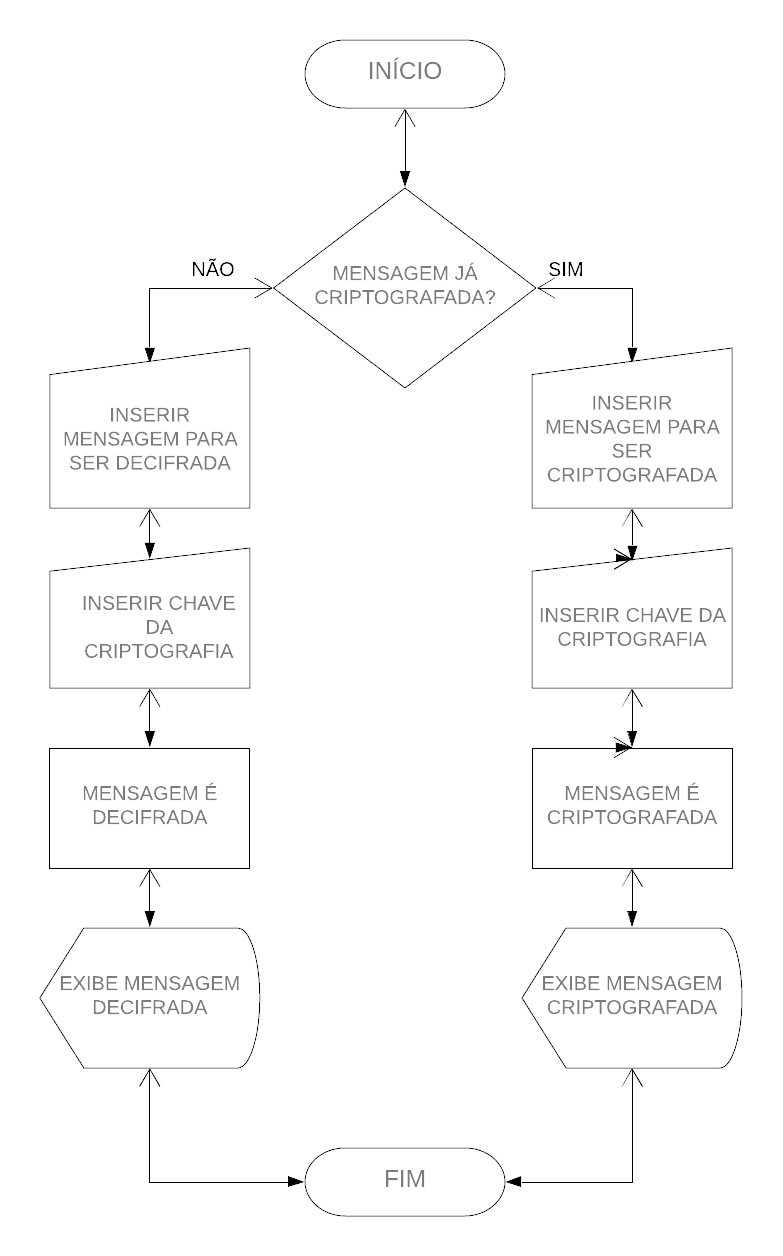
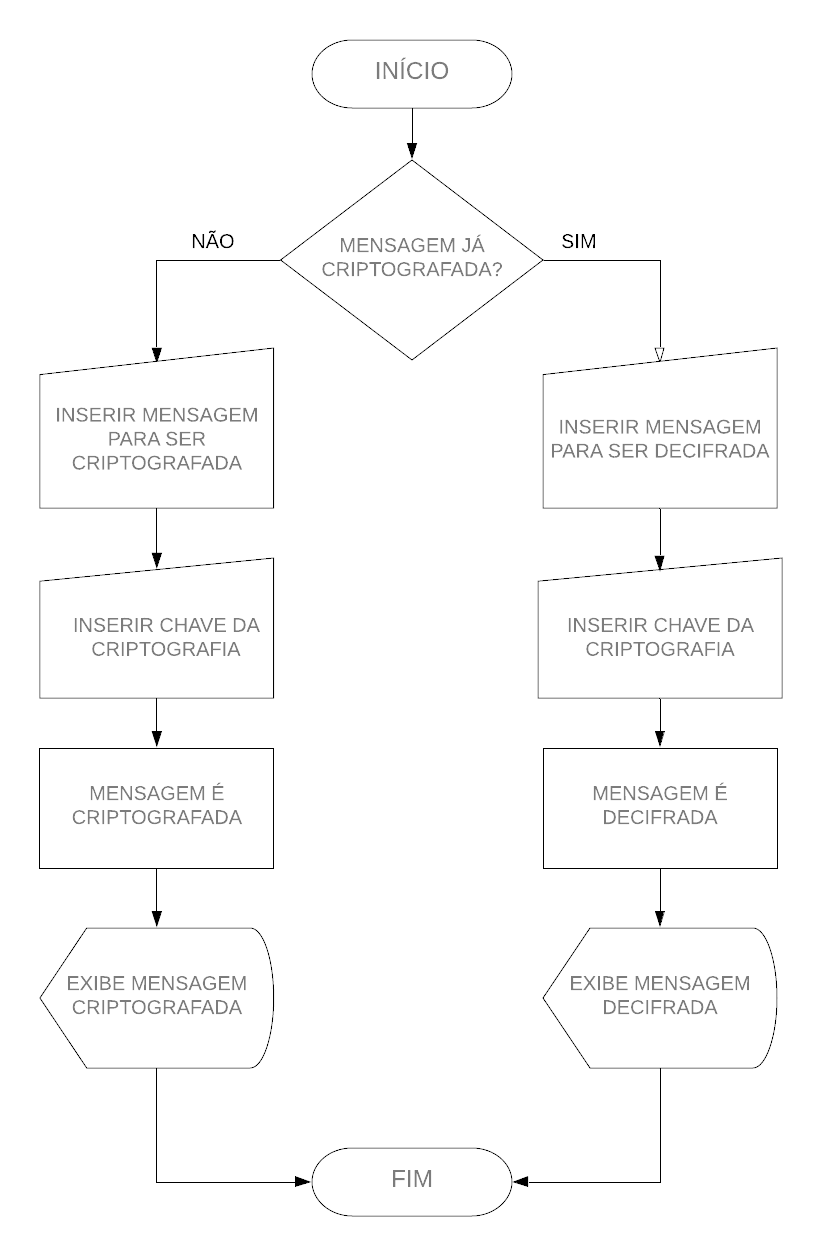
Nova versão do cipher, mudanças no css e html, README e diagrama atualizados

diff --git a/src/index.html b/src/index.html
@@ -13,35 +13,36 @@
     </header>
 
     <section id="cript">
-      <h2>Criptografe</h2>
+      <h2>Criptografando</h2>
       <label>Insira a mensagem que deseja criptografar:</label>
       <br>
-      <input id="textToEncode" type="text" />
+      <textarea id="textToEncode" rows="4" cols="50"></textarea>
       <br><br>
-      <label>Insira a chave da criptografia:</label>
+      <label>Insira o deslocamento do alfabeto? (a chave)</label>
       <br>
-      <input id="offsetEncode" type="text" />
+      <input id="offsetEncode"></input>
       <br>
-      <button onClick="getTextEncode()">Criptografe</button>
+      <button onClick="getTextEncode()" class="testbutton">Criptografe</button>
+      <br>
       <p id="encoded"></p>
     </section>
 
     <section id="dec">
-      <h2>Decifre</h2>
-      <label>Insira a mensagem que deseja decifrar:</label>
+      <h2>Decifrando</h2>
+      <label>Insira a mensagem que deseja descriptografar:</label>
       <br>
-      <input id="textToDecode" type="text" />
+      <textarea id="textToDecode" rows="4" cols="50"></textarea>
       <br><br>
       <label>Insira a chave que foi usada na criptografia:</label>
       <br>
-      <input id="offsetDecode" type="text" />
+      <input id="offsetDecode"></input>
       <br>
-      <button onClick="getTextDecode()">Decifre</button>
+      <button onClick="getTextDecode()" class="testbutton">Decifre</button>
       <p id="decoded"></p>
     </section>
 
     <footer>
-      <p>blablablah</p>
+      <p>< Jéssica Happatsch - Laboratoria ></p>
     </footer>
     <script src="script.js"></script>
   </body>

diff --git a/src/cipher.js b/src/cipher.js
@@ -3,14 +3,9 @@ function encode(offset, string) {
 
   for (let i = 0; i < string.length; i++) {
     let letter = string.charCodeAt(i);
-    if ((letter >= 65) && (letter <= 90)) {
-      encUpper = (letter - 65 + offset) % 26 + 65;
-      final += String.fromCharCode(encUpper);
-    } else if ((letter >= 97) && (letter <= 122)) {
-      encLower = (letter - 97 + offset) % 26 + 97;
-      final += String.fromCharCode(encLower);
-    } else {
-      final += String.fromCharCode(letter);
+    if ((letter >= 32) && (letter <= 254)) {
+      encLetter = ((letter - 32 + offset) % 222) + 32;
+      final += String.fromCharCode(encLetter);
     }
   }
   return final;
@@ -21,14 +16,9 @@ function decode(offset, string) {
 
   for (let i = 0; i < string.length; i++) {
     let letter = string.charCodeAt(i);
-    if ((letter >= 65) && (letter <= 90)) {
-      encUpper = ((letter - 65 - offset) % 26) + 65;
-      final += String.fromCharCode(encUpper);
-    } else if ((letter >= 97) && (letter <= 122)) {
-      encLower = ((letter - 97 - offset) % 26) + 97;
-      final += String.fromCharCode(encLower);
-    } else {
-      final += String.fromCharCode(letter);
+    if ((letter >= 32) && (letter <= 254)) {
+      encLetter = ((letter - 32 - offset) % 222) + 32;
+      final += String.fromCharCode(encLetter);
     }
   }
   return final;

diff --git a/src/style.css b/src/style.css
@@ -9,7 +9,7 @@ body {
   align-self: center;
 }
 
-header, section {
+section {
   padding: 30px;
 }
 
@@ -28,4 +28,26 @@ label, p {
   font-family: 'Montserrat', sans-serif;
   font-weight: 400;
   font-size: 16px;
+}
+
+.testbutton {
+  font-family: 'trebuchet ms';
+  color: #1F1F1F !important;
+  font-size: 13px;
+  text-shadow: 1px 1px 0px #D9D9D9;
+  box-shadow: 1px 1px 1px #F9F9F9;
+  padding: 10px 25px;
+  border: 1px outset #575757;
+  background: #FCFCFC;
+  margin-top: 18px;
+}
+
+
+.testbutton:hover {
+  color: #6A5A6A !important;
+  background: #F2F2F2;
+  background: linear-gradient(top,  #F2F2F2,  #FFFFFF);
+  background: -ms-linear-gradient(top,  #F2F2F2,  #FFFFFF);
+  background: -webkit-gradient(linear, left top, left bottom, from(#F2F2F2), to(#FFFFFF));
+  background: -moz-linear-gradient(top,  #F2F2F2,  #FFFFFF);
 }

diff --git a/README.md b/README.md
@@ -1,22 +1,10 @@
-# Cifra de César
+# Cifra de César - Projeto I
 
-## Prefácio
-
-O aniversário da sua mãe está se aproximando e você está organizando uma festa
-surpresa. Para manter a festa em segredo foi criado um grupo de Whatsapp com
-amigxs e familiares. O problema é que as vezes sua mãe utiliza o seu celular
-e pode ser que ela veja as suas mensagens. Como a festa é surpresa, você
-decide criar uma aplicação que permita enviar mensagens criptografadas e depois
-descriptografar. Então agora é a hora de aplicar os seus super poderes 😎
-
-## Introdução
-
+# # Sobre a Cifra de César
 A [cifra de César](https://pt.wikipedia.org/wiki/Cifra_de_C%C3%A9sar) é um dos
 primeiros tipos de criptografias conhecidos na história. É um tipo de cifra por
 substituição, em que uma letra no texto original é substituída por outra,
 seguindo um número fixo para essa subtituição.
-
-![caeser-cipher](https://upload.wikimedia.org/wikipedia/commons/thumb/2/2b/Caesar3.svg/2000px-Caesar3.svg.png)
 
 O imperador Júlio César usou essa cifra para enviar ordens aos seus generais no
 campo de batalha. Essa é uma das técnicas mais simples e mais usadas para
@@ -32,174 +20,25 @@ com facilidade e não oferecem muita segurança na comunição, mas a cifra de
 César muitas vezes pode fazer parte de um sistema mais complexo de
 criptografia, como a cifra de Vigenère, e tem aplicação no sistema ROT13.
 
-## Objetivos
+# # O projeto e seus objetivos
+O objetivo principal é a construção de uma aplicação web, usando os conhecimentos de **User Experience Design** e de **JavaScript**. Isso inclui o desenho do produto pensando nos usuários, construção da interface, escutar eventos básicos do DOM, escrever a lógica que cifra e descifra mensagens, realizar testes básicos que comprovem (e documentem) esta lógica e manipular o DOM para que ele mostre e imprima os resultados.
 
-O objetivo principal de aprendizagem deste projeto é que você tenha sua
-primeira experiência construindo uma aplicação web, usando os seus
-conhecimentos de **User Experience Design** e de **JavaScript**. Isso
-inclui desenhar um produto pensando nos usuários, construir uma interface,
-escutar eventos básicos do DOM, escrever a lógica que cifra e descifra
-mensagens, realizar testes básicos que comprovem (e documentem) esta lógica,
-e finalmente manipular o DOM para que ele mostre e imprima os resultados.
+A lógica do projeto deve estar implementada inteiramente em vanilla JavaScript(ES6).
 
-Esperamos que neste projeto você possa pensar no usuário, entendendo quem ele
-é e suas necessidades. A ideia é que consiga entender o que o usuário
-necessita para criar o produto e o ajudar a resolver suas necessidades da
-melhor maneira possível.
+# # Descrição do projeto
+A interface permite que o usuário insira uma mensagem seja para criptografar ou decifrar usando a Cifra de César e de acordo com a chave (offset - deslocamento) que ele escolher e inserir.
+O resultado é impresso na tela depois que o usuário insere a mensagem, a chave e aperta o botão correspondente.
 
-Também é esperado que você possa se organizar, tendo em conta o tempo e os
-recursos disponíveis. Essa é a primeira vez que avaliaremos suas soft skills,
-mas deve considerar que são habilidades que provavelmente já deve ter
-utilizado em diversas experiências em sua vida. O importante é que realize
-o projeto de forma integral.
+# # # A lógica
+![diagrama-de-blocos](https://github.com/vonhappatsch/caesar-cipher/blob/master/diagrama.png)
 
-## Considerações gerais
-
-A lógica do projeto deve estar implementada inteiramente em JavaScript(ES6).
-Nesse projeto NÃO está permitido usar bibliotecas ou frameworks, só
-[vanilla JavaScript](https://medium.com/laboratoria-how-to/vanillajs-vs-jquery-31e623bbd46e).
-
-Para começar este projeto você terá que fazer um _fork_ e _clonar_ este
-repositório que contém o _boilerplate_.
-
-O _boilerplate_ contém uma estrutura de arquivos como ponto de partida, assim
-como toda a configuração de dependência:
-
-```text
-./
-├── .gitignore
-├── README.md
-├── src
-│   ├── cipher.js
-│   ├── index.html
-│   ├── tests.js
-│   └── style.css
-```
-
-## Parte obrigatória
-
-### Definição do produto
-
-No `README.md` descreva o seu processo de desenvolvimento utilizando os
-diagramas de bloco e como definiu os usuários quando estava desenvolvendo
-seu projeto.
-
-### UI
-
-A interface deve permitir ao usuário:
-
-* eleger um `offset` indicando quantas posições de deslocamento de caracteres
-  queremos que a cifra utilize
-* inserir uma mensagem (letras maiúsculas e minúsculas) que queremos cifrar
-* ver o resultado da mensagem cifrada
-* inserir uma mensagem (letras maiúsculas e minúsculas) para ser decifrada
-* ver o resultado da mensagem decifrada
-
-### Scripts / Arquivos
-
-* `src/index.html`: este é o ponto de entrada da sua aplicação. Este arquivo
-  deve conter o _markup_ (HTML) e incluir o CSS e JavaScript necessário.
-* `src/cipher.js`: aqui você deve implementar o objeto cipher, o qual deve
-  estar _exportado_ no objeto global (`window`). Este objeto (`cipher`) deve
-  conter dois métodos:
-    - `cipher.encode(offset, string)`: `offset` é o número de posições que
-    queremos mover para a direita no alfabeto e `string` a mensagem (texto)
-    que quemos cifrar.
-    - `cipher.decode(offset, string)`: `offset` é o número de posições que
-    queremos mover para a esquerda no alfabeto e `string` é a mensagem (texto)
-    que queremos decifrar.
-* `src/tests.js`: este arquivo deve conter os testes que você irá implementar
-
-## Hacker edition
-
-
-### Parte Opcional: "Hacker edition"
-
-A descrição geral deste projeto não menciona o que aconteceria com as outros
-caracteres (como espaços, pontuação, acentos, etc.). Também não foi mencionado
-o que aconteceria se o `offset` fosse negativo. Como parte do hacker edition te
-convidamos a explorar este caso por conta própria.
-
-O desafio anterior nos ajuda a observar sua capacidade de autoaprendizagem,
-podemos agregar aos seu trabalho um elemento que te leva à um novo nível.
-
-O mesmo em habilidades socioemocionais. Você pode realizar um planejamento
-tendo em consideração a utilização de ferramentas de planejamento como um
-calendário, trello, flip chart entre outros, criando um plano passo a passo de
-como quer enfrentar o seu desafio ou problema. Realizando uma estimação
-realista do tempo.
-
-## Entrega
-
-Para entregar o projeto, você deve subir seu código para o GitHub
-(`add`/`commit`/`push`)..
-
-## Avaliação
-
-Aconselhamos você a revisar [a rúbrica](https://docs.google.com/spreadsheets/d/e/2PACX-1vSkQy1waRpQ-16sn7VogiDTy-Fz5e7OSZSYUCiHC_bkLAKYewr4L8pWJ_BG210PeULe-TjLScNQQT_x/pubhtml#)
-para ver a descrição detalhada de cada _habilidade_ e cada _nível_.
-
-***
-
-## Primeros passos
-
-1. Antes de mais nada, se assegure de ter um bom :pencil: editor de texto,
-  algo como [Code](https://code.visualstudio.com/) ou [Atom](https://atom.io/).
-2. Para executar os comando você precisará de um :shell: UNIX Shell,
-  que é um programa que interpreta linhas de comando (command-line interpreter) e
-  também deve ter git instalado. Se você usa um sistema operacional "UNIX-like",
-  como GNU/Linux ou MacOS, você já tem um _shell_ (terminal) instalado (e
-  provavelmente o `git` também). Se você usa Windows você pode usar o
-  [Git bash](https://git-scm.com/download/win), embora seja recomendado que
-  você teste :penguin: GNU/Linux.
-3. Faça seu próprio :fork_and_knife: [fork](https://help.github.com/articles/fork-a-repo/)
-  do repositório. Seus _mentores_ compartilharão com você um _link_ para um repositório privado e te darão acesso a este repositório.
-4. :arrow_down: [Clone](https://help.github.com/articles/cloning-a-repository/)
-  o _fork_ para seu computador (cópia local).
-5. Let's Code ! :rocket:
-
-***
-
-## Dicas
-
-A seguir um vídeo do Daniel que te ajudará a entender a fórmula matemática
-usada pela Cifra de César e algumas coisas mais que deve saber para resolver
-o seu projeto. Escute com atenção e siga seus conselhos ! :)
-
-[![Dicas Cifra de César](https://img.youtube.com/vi/utiLWBXmNQU/0.jpg)](https://www.youtube.com/watch?v=utiLWBXmNQU)
-
-Também compartilhamos com vocês mais informações sobre o que foi explicado no
-vídeo anterior:
-
-* [Aprenda mais sobre `charCodeAt()`](https://developer.mozilla.org/es/docs/Web/JavaScript/Referencia/Objetos_globales/String/charCodeAt)
-* [Aprenda mais sobre `String.fromCharCode()`](https://developer.mozilla.org/es/docs/Web/JavaScript/Referencia/Objetos_globales/String/fromCharCode)
-* [Aprenda mais sobre `ASCII`](http://conceptodefinicion.de/ascii/)
-
-
-Estas são algumas dicas que podem te ajudar na organização e relização do seu
-projeto, tendo em conta o desenvolvimento de suas _habilidades socioemocionais_:
-
-* Para começar, realize a organização de seu projeto. Veja quais recursos você
-  tem disponíveis e o tempo que tem para completar o desafio.
-* Se tiver algo que você não saiba, pergunte e tente entender o problema; pode
-  começar com uma busca no google, depois consultando seu squad e por último a
-  seus coaches. Se existe algo que eu não sei, outra pessoa pode me ajudar. O
-  aprendizado é um processo colaborativo.
-* Assim que começar a avançar em seu projeto, peça feedbacks. Suas companheiras
-  podem ter excelentes ideias ou formas de resolver o projeto que podem te ajudar.
-* Quando se deparar com um problema, busque alternativas e, para isso, consulte
-  várias fontes.
-* Se você perceber que já faz muito tempo que está presa em detalhes, pare e
-  priorize o que é mais importante. Os projetos têm tempo limitado e você deve
-  saber administrá-lo.
-* Trabalhe em equipe, pergunte e tente completar o projeto sem se render.
-* Prepare sua apresentação. Se não consigo passar minhas ideiais aos demais,
-  não será possível apreciar todo o esforço e trabalho investido.
+Os **dados de entrada** são: Mensagem para criptografar ou Mensagem para decifrar e chave de deslocamento
+O **processo** é: Utilizando a fórmula matemática da Cifra de César, o processo necessário para criptografar uma mensagem é: ((CódigoASCIIdaLetra - CódigoASCIIdaPrimeiraLetraDoAlfabeto + offset) % 26) + CódigoASCIIdaPrimeiraLetraDoAlfabeto. Sendo 26 o tamanho do alfabeto. Para decifrar, seria necessário trocar apenas o sinal de adição por subtração antes do offset, assim voltando as letras da mensagem para suas posições iniciais. O processo é repetido da primeira até a última letra da mensagem, armazenando/concatenando o resultado em uma string vazia através do `for`.
+Os **dados de saída** são: Mensagem criptgrafada OU Mensagem decifrada
+`Recebe mensagem => Recebe Chave => Implementa a fórmula => Imprime mensagem de resultado`
 
 ## Checklist
-
 ### Parte Obrigatória
-
 * [ ] `README.md` com explicações e desenho do projeto
 * [ ] Usar VanillaJS.
 * [ ] Permitir escrever um texto, com letras maiúsculas e minúsculas, para ser
@@ -214,9 +53,6 @@ projeto, tendo em conta o desenvolvimento de suas _habilidades socioemocionais_:
 * [ ] Implementa `cipher.decode`.
 * [ ] Criar testes unitários.
 
-### Parte Opcional: "Hacker edition"
-
+### Hacker Edition
 * [ ] Permite usar um `offset` (_deslocamento_) negativo
 * [ ] Cifra/descifra _outros_ caracteres (espaços, pontuação, `ã`, `á`, ...)
-
-![diagrama-de-blocos](https://github.com/vonhappatsch/caesar-cipher/blob/master/diagrama.png)
